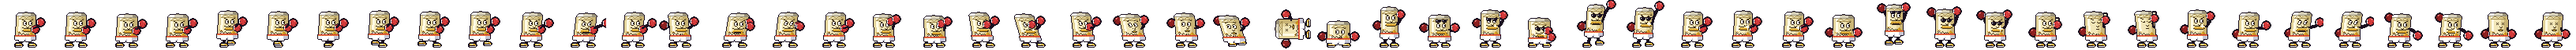
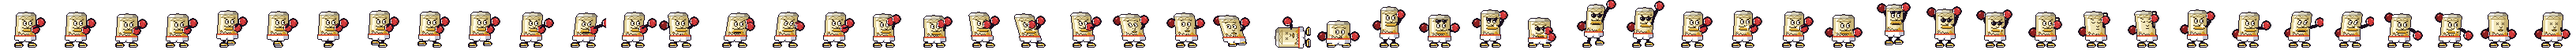
Mission 3 fight fixes: flat knockdowns, the KO picture, new count rules
- Knocked-down fighters lie on the mat: the flat frames keep both gloves up on
  the chest, so the body (not a glove) sits on the floor line. Mane, Pip and
  Crowe (Mission 7) all get it.
- During a count the fighter still standing backs off to a neutral corner and
  the ref stands clear of the one on the mat.
- The final KO shows Jack's KO picture full-screen instead of the sepia photo
  cutscene. Tap or any key moves on.
- Pip beats the count at 3, 5, 7, then 9 and gets up with 60/45/32/20% health.
  The 5th knockdown recycles him in any round, and the HUD shows 5 cans.
- The Mission 3 results line reads I AM THE GREATEST WATER IN THE WORLD!

Claude-Session: https://claude.ai/code/session_01Ug46qhJDuhB8V35tG5BFoy

Changed region(s): [[0.4688, 0.375, 0.5312, 0.9688]]

diff --git a/src/missions/Mission3.ts b/src/missions/Mission3.ts
@@ -3,6 +3,7 @@ import { FightScene, CountPlan, RoundEnd, Speaker } from '../modes/fight/FightSc
 import { Fighter, Move, FLOOR_Y } from '../modes/fight/Fighter';
 import { Pip, PipStyle } from '../modes/fight/Pip';
 import { Audio } from '../core/audio';
+import { Controls } from '../core/controls';
 import { COLORS } from '../core/config';
 import { px } from '../core/text';
 import { MANE, PIP } from './lines';
@@ -15,11 +16,17 @@ const ROUNDS: PipStyle[] = [
   { gap: [0.6, 1.25], weights: { jab: 3, jab2: 2, jab3: 2, hay: 3, cap: 2, flip: 3, taunt: 1 }, guard: 0.35, crinkle: 0.3, speed: 1.16, power: 1.15, daze: 0.8 },
 ];
 const ROUND_SECONDS = 75;
+// Pip beats the count at 3, 5, 7, then 9, and gets up weaker each time; the 5th knockdown recycles him.
+// It can happen in any round: five knockdowns and the fight's over.
+const GET_UP_AT = [3, 5, 7, 9];
+const GET_UP_HP = [0.6, 0.45, 0.32, 0.2];
+const KNOCKDOWNS_TO_RECYCLE = GET_UP_AT.length + 1;
 
 // Mission 3: FIGHT NIGHT. Mid-South Coliseum. MEMPHYS Mane vs Pip, the DeNile Water mascot. Three rounds.
 export class Mission3 extends FightScene {
   private pip!: Pip;
   private arenaImg!: Phaser.GameObjects.Image;
+  private koPhoto?: HTMLImageElement;
   private spot!: Phaser.GameObjects.Image;
   private bulbs?: Phaser.Time.TimerEvent;
 
@@ -27,6 +34,10 @@ export class Mission3 extends FightScene {
 
   buildArena() {
     this.missionId = 'm3-fight-night';
+    this.kdSlots = KNOCKDOWNS_TO_RECYCLE;
+    // the KO photo is a real picture: load it early so it's there the moment he drops
+    this.koPhoto = new Image();
+    this.koPhoto.src = 'assets/img/ko-meme.jpg';
     this.arenaImg = this.add.image(this.midX, 0, 'arena').setOrigin(0.5, 0).setDepth(-100);
     this.spot = this.add.image(this.midX, 0, 'spotlight').setOrigin(0.5, 0).setScale(1.6, 1).setDepth(20).setBlendMode(Phaser.BlendModes.ADD).setAlpha(0.7);
     this.ref = this.add.sprite(this.midX + 120, FLOOR_Y - 8, 'ref').setOrigin(0.5, 61 / 64).setScale(2).setDepth(5).setFlipX(true).play('ref:idle');
@@ -46,8 +57,7 @@ export class Mission3 extends FightScene {
   }
 
   foeCount(kd: number): CountPlan {
-    // rounds 1 and 2 he beats the count and the round goes on; round 3 he's recycled
-    if (this.round < 3) return { getUpAt: kd <= 1 ? 5 : 7 };
+    if (kd < KNOCKDOWNS_TO_RECYCLE) return { getUpAt: GET_UP_AT[kd - 1], getUpHp: GET_UP_HP[kd - 1] };
     return { getUpAt: null, lastWord: 'RECYCLED!' };
   }
 
@@ -87,15 +97,19 @@ export class Mission3 extends FightScene {
     Audio.music(this, 'music_fight', 0.45);
     this.tip('start');
     this.pip.setStyle(ROUNDS[0]);
+    // five knockdowns ends it in any round; the final round has no clock, so it ends when he's recycled
     let how: RoundEnd = await this.fightRound(1, ROUND_SECONDS);
-    await this.corner(1, how);
-    this.pip.setStyle(ROUNDS[1]);
-    how = await this.fightRound(2, ROUND_SECONDS);
-    await this.corner(2, how);
-    this.pip.setStyle(ROUNDS[2]);
-    this.pip.tint = 0xc8e8ff;
-    // the final round has no clock: it ends when somebody gets recycled
-    while ((how = await this.fightRound(3, null)) !== 'ko') { /* he can't get up in round 3 */ }
+    if (how !== 'ko') {
+      await this.corner(1, how);
+      this.pip.setStyle(ROUNDS[1]);
+      how = await this.fightRound(2, ROUND_SECONDS);
+    }
+    if (how !== 'ko') {
+      await this.corner(2, how);
+      this.pip.setStyle(ROUNDS[2]);
+      this.pip.tint = 0xc8e8ff;
+      while ((how = await this.fightRound(3, null)) !== 'ko') { /* keep going till he's recycled */ }
+    }
     await this.ending();
   }
 
@@ -280,45 +294,50 @@ export class Mission3 extends FightScene {
   async beforeCount(f: Fighter, plan: CountPlan) {
     if (f !== this.pip || plan.getUpAt !== null) return;
     Audio.stopMusic();
-    await this.wait(900);
-    const p = this.player, pip = this.pip;
     this.events.emit('cutscene', true);
-    // Mane stands over him, just like the poster: Pip flat in front, Mane behind him
-    this.refTo(this.midX, true);
-    p.setState('scripted');
-    pip.setState('scripted');
-    pip.x = Phaser.Math.Clamp(pip.x, this.midX - 40, this.midX + 90);
-    pip.z = -12;
-    pip.sprite.setDepth(12);
-    p.x = pip.x - 34; p.facing = 1;
-    p.play('standOver', true);
+    await this.wait(700);
+    // flashbulbs, then the picture everybody's gonna post
     const cam = this.cameras.main;
-    const W = this.W;
-    const layer = this.add.container(0, 0).setDepth(30);
-    layer.add(this.add.rectangle(0, 0, W, 216, 0x8a5a20, 0.32).setOrigin(0).setBlendMode(Phaser.BlendModes.MULTIPLY));
-    layer.add(this.add.rectangle(0, 0, W, 216, 0xffe0a0, 0.08).setOrigin(0).setBlendMode(Phaser.BlendModes.ADD));
-    for (const [x, y, w, hh] of [[0, 0, W, 18], [0, 198, W, 18], [0, 0, 22, 216], [W - 22, 0, 22, 216]]) layer.add(this.add.rectangle(x, y, w, hh, 0x000000, 0.55).setOrigin(0));
-    cam.pan((p.x + pip.x) / 2 + 4, 128, 500, 'Sine.easeInOut');
-    cam.zoomTo(1.35, 500, 'Sine.easeInOut');
     this.sfx('ooh', 0.8);
-    for (let i = 0; i < 9; i++) {
-      this.time.delayedCall(300 + i * 260 + Math.random() * 120, () => {
-        this.sfx('flash', 0.6);
-        this.bulb(undefined, undefined, true);
-        if (i % 3 === 0) cam.flash(90, 255, 255, 255);
-      });
-    }
-    this.time.delayedCall(1200, () => p.play('standOver', true));
-    await this.wait(3400);
-    cam.zoomTo(1, 400, 'Sine.easeInOut');
-    cam.pan(W / 2, 108, 400, 'Sine.easeInOut');
-    await this.wait(420);
-    layer.destroy();
-    cam.setScroll(0, 0);
-    p.x = this.homes().mane - 20;
-    p.play('idle');
-    pip.z = 0; pip.setState('down');
+    for (let i = 0; i < 4; i++) this.time.delayedCall(i * 140, () => { this.sfx('flash', 0.6); this.bulb(undefined, undefined, true); });
+    await this.wait(600);
+    cam.flash(160, 255, 255, 255);
+    await this.showKoPhoto();
     this.events.emit('cutscene', false);
+  }
+
+  // Jack's KO picture over the whole game, full resolution. Tap or press a key to move on.
+  private showKoPhoto() {
+    const canvas = this.game.canvas;
+    const r = canvas.getBoundingClientRect();
+    const host = (document.fullscreenElement as HTMLElement | null) ?? document.body;
+    const wrap = document.createElement('div');
+    Object.assign(wrap.style, {
+      position: 'fixed', left: r.left + 'px', top: r.top + 'px', width: r.width + 'px', height: r.height + 'px',
+      background: 'rgba(4,6,18,0.94)', display: 'flex', alignItems: 'center', justifyContent: 'center',
+      zIndex: '50', opacity: '0', transition: 'opacity 220ms ease-out', cursor: 'pointer',
+    } as Partial<CSSStyleDeclaration>);
+    const img = (this.koPhoto?.complete ? this.koPhoto : null) ?? Object.assign(new Image(), { src: 'assets/img/ko-meme.jpg' });
+    img.alt = 'MEMPHYS Mane stands over a knocked-out Pip';
+    Object.assign(img.style, {
+      height: '92%', maxWidth: '92%', objectFit: 'contain', border: '3px solid #f3e2b0', borderRadius: '2px',
+      boxShadow: '0 6px 30px rgba(0,0,0,0.7)', transform: 'rotate(-1.5deg) scale(1.06)', transition: 'transform 400ms ease-out',
+    } as Partial<CSSStyleDeclaration>);
+    wrap.appendChild(img);
+    host.appendChild(wrap);
+    requestAnimationFrame(() => { wrap.style.opacity = '1'; img.style.transform = 'rotate(-1.5deg) scale(1)'; });
+    const t0 = this.time.now;
+    let tapped = false;
+    wrap.addEventListener('pointerdown', () => { tapped = true; });
+    const close = () => wrap.remove();
+    this.events.once(Phaser.Scenes.Events.SHUTDOWN, close);
+    this.time.delayedCall(250, () => this.sfx('flash', 0.7));
+    return this.waitUntil(() => this.time.now - t0 > 4200 || (this.time.now - t0 > 700 && (tapped || Controls.consume('attack', 300))))
+      .then(async () => {
+        wrap.style.opacity = '0';
+        await this.wait(230);
+        close();
+      });
   }
 
   // ------------------------------------------------------------------ ending: recycled, O.G. pays up, the tanker tip

diff --git a/src/modes/fight/FightScene.ts b/src/modes/fight/FightScene.ts
@@ -29,6 +29,7 @@ export abstract class FightScene extends Phaser.Scene {
   missionId = '';
   round = 0;
   clock: number | null = null; // seconds left, or null for no clock
+  kdSlots = 3; // knockdown cans on the foe's HUD
   fighting = false; // fighters can act
   inCutscene = false;
   skipping = false;
@@ -413,13 +414,29 @@ export abstract class FightScene extends Phaser.Scene {
     for (const f of [this.player, this.foeF]) if (f.state !== 'down' && f.state !== 'out') { f.toIdle(); f.controllable = false; }
   }
 
+  // During a count the fighter still standing backs off to a neutral corner, and the ref
+  // stands between them, clear of the one lying on the mat.
+  neutralCorner(down: Fighter) {
+    const o = this.other(down);
+    const dir = Math.sign(o.x - down.x) || (down === this.player ? 1 : -1);
+    const lim = this.ringHalf();
+    this.refTo(Phaser.Math.Clamp(down.x + dir * 94, this.midX - lim - 20, this.midX + lim + 20));
+    if (o.state === 'down' || o.state === 'out') return;
+    const ox = Phaser.Math.Clamp(down.x + dir * 160, this.midX - lim, this.midX + lim);
+    if (Math.abs(ox - o.x) < 6) return;
+    o.move = null;
+    o.setState('scripted');
+    o.play('walk', true);
+    this.tweens.add({ targets: o, x: ox, duration: Math.min(900, Math.abs(ox - o.x) * 8 + 150), onComplete: () => { if (o.state === 'scripted') o.play('idle', true); } });
+  }
+
   // The ref counts. Returns true if the fighter beats the count.
   async count(f: Fighter, plan: CountPlan) {
     this.counting = true;
     const other = this.other(f);
     other.controllable = false;
     await this.wait(700);
-    this.refTo(f.x + (f === this.player ? 46 : -46));
+    this.neutralCorner(f);
     for (let i = 1; i <= 10; i++) {
       const last = i === 10 || (plan.lastWord && i === 10);
       const word = i === 10 && plan.lastWord ? plan.lastWord : String(i);
@@ -450,7 +467,7 @@ export abstract class FightScene extends Phaser.Scene {
     const need = 8 + p.knockdowns * 5;
     let taps = 0;
     await this.wait(600);
-    this.refTo(p.x + 46);
+    this.neutralCorner(p);
     this.events.emit('mash', 0);
     Controls.clear();
     for (let i = 1; i <= 10; i++) {

diff --git a/tools/art/fight.ts b/tools/art/fight.ts
@@ -72,7 +72,8 @@ export function maneBoxFrames() {
     { x: -3, tilt: -6, sx: 2, sy: -2, front: A(4, -11), back: A(-6, -10), ff: [3, 0], bf: [-3, 0], face: 'hurt' },
     { x: -1, tilt: -3, sx: 1, sy: -1, front: A(7, -6), back: A(-7, -6), ff: [3, 0], bf: [-3, 0], face: 'hurt' },
   ]);
-  const flat = layFlat(finish(drawMane(B({ front: A(8, -6), back: A(-8, -6), ff: [3, 0], bf: [-3, 0], face: 'ko' }))), 61);
+  // gloves rest on the chest (to the right standing = up once laid flat), so the body itself lies on the mat
+  const flat = layFlat(finish(drawMane(B({ front: A(10, -4), back: A(6, -12), ff: [3, 0], bf: [-3, 0], face: 'ko' }))), 61);
   add('knockdown', [
     { x: -4, y: 2, tilt: -9, sx: 1, sy: -2, front: A(6, -10), back: A(-6, -12), ff: [5, -3], bf: [2, -1], face: 'hurt' },
     flat,
@@ -350,7 +351,7 @@ export function pipFrames() {
     { x: -1, tilt: -3, front: A(7, 8), back: A(-6, 8), ff: [3, 0], bf: [-3, 0], face: 'dizzy' },
     { x: 1, tilt: 3, front: A(7, 8), back: A(-6, 8), ff: [3, 0], bf: [-3, 0], face: 'dizzy' },
   ]);
-  const flat = layFlat(drawPip({ front: A(9, -8), back: A(-8, -9), ff: [3, 0], bf: [-3, 0], face: 'ko', crinkle: 1 }), 61);
+  const flat = layFlat(drawPip({ front: A(11, -4), back: A(7, -13), ff: [3, 0], bf: [-3, 0], face: 'ko', crinkle: 1 }), 61);
   add('knockdown', [
     { x: -4, y: 2, tilt: -9, sx: 1, sy: -2, crinkle: 0.8, front: A(6, -12), back: A(-6, -13), ff: [5, -3], bf: [2, -1], face: 'hurt' },
     flat,

diff --git a/src/scenes/Results.ts b/src/scenes/Results.ts
@@ -1,4 +1,5 @@
 import Phaser from 'phaser';
+import { MANE } from '../missions/lines';
 import { Audio } from '../core/audio';
 import { COLORS, MEMPHYS_URL } from '../core/config';
 import { px } from '../core/text';
@@ -28,7 +29,7 @@ export class Results extends Phaser.Scene {
     this.add.tileSprite(0, 0, W, 216, m.mode === 'fight' ? (m.number === 7 ? 'riverStage' : 'arena') : m.mode === 'driving' ? (m.number === 8 ? 'loopFar' : 'driveFar') : m.mode === 'shooter' ? (m.number === 9 ? 'gigantumExt' : 'plantExt') : m.number === 10 ? 'sourceExt' : m.number === 6 ? 'bealeExt' : 'egypt').setOrigin(0).setAlpha(0.35);
     this.add.rectangle(0, 0, W, 216, 0x070a1c, 0.55).setOrigin(0);
     px(this, W / 2, 12, `MISSION ${m.number} COMPLETE`, COLORS.goldHi, 2).setOrigin(0.5, 0);
-    px(this, W / 2, 34, !next && m.number === 10 ? 'THE END. THANKS FOR PLAYING!' : 'ROYAL BY NATURE.', COLORS.cream).setOrigin(0.5, 0);
+    px(this, W / 2, 34, !next && m.number === 10 ? 'THE END. THANKS FOR PLAYING!' : m.number === 3 ? MANE.victory : 'ROYAL BY NATURE.', COLORS.cream).setOrigin(0.5, 0);
 
     const mane = this.add.sprite(70, 150, m.mode === 'fight' ? 'maneBox' : 'mane').setScale(2).setOrigin(0.5, 61 / 64);
     mane.play(`${mane.texture.key}:victory`);

diff --git a/tools/art/crowe.ts b/tools/art/crowe.ts
@@ -305,7 +305,7 @@ export function croweFrames() {
   ]);
   add('knockdown', [
     { x: -4, lean: -6, crouch: 2, fa: [4, -12], ba: [-8, -12], ff: [5, -3], bf: [2, -1], face: 'hurt' },
-    layFlat(drawCrowe({ fa: [10, -8], ba: [-8, -9], ff: [3, 0], bf: [-3, 0], face: 'ko', sparks: true }), 61),
+    layFlat(drawCrowe({ fa: [11, -4], ba: [7, -13], ff: [3, 0], bf: [-3, 0], face: 'ko', sparks: true }), 61),
   ]);
   add('getup', [
     { crouch: 8, lean: 3, fa: [8, 8], ba: [-6, 8], ff: [6, 0], bf: [-6, 0], face: 'hurt' },
@@ -641,7 +641,7 @@ export function victorFrames() {
   ]);
   add('knockdown', [
     { x: -4, lean: -6, crouch: 2, fa: [4, -12], ba: [-8, -12], ff: [5, -3], bf: [2, -1], face: 'hurt' },
-    layFlat(drawCrowe({ human: true, fa: [10, -8], ba: [-8, -9], ff: [3, 0], bf: [-3, 0], face: 'ko' }), 61),
+    layFlat(drawCrowe({ human: true, fa: [11, -4], ba: [7, -13], ff: [3, 0], bf: [-3, 0], face: 'ko' }), 61),
   ]);
   add('getup', [
     { crouch: 8, lean: 3, fa: [8, 8], ba: [-6, 8], ff: [6, 0], bf: [-6, 0], face: 'hurt' },

diff --git a/src/modes/fight/FightUI.ts b/src/modes/fight/FightUI.ts
@@ -82,7 +82,7 @@ export class FightUI extends Phaser.Scene {
     const fn = px(this, W - 44, 4, this.world.foeF.name, 0xa8dcff).setOrigin(1, 0);
     const fb = this.add.rectangle(W - 44, 15, this.barW + 2, 7, 0x0b0f26).setOrigin(1, 0).setStrokeStyle(1, COLORS.ink);
     this.foeBar = this.add.rectangle(W - 45, 16, this.barW, 5, COLORS.red).setOrigin(1, 0);
-    for (let i = 0; i < 3; i++) this.stars.push(this.add.image(W - 50 - i * 12, 30, 'hudCanEmpty').setOrigin(0.5, 0).setScale(0.7).setTint(0x7fc4ff).setAlpha(0.35));
+    for (let i = 0; i < this.world.kdSlots; i++) this.stars.push(this.add.image(W - 50 - i * 12, 30, 'hudCanEmpty').setOrigin(0.5, 0).setScale(0.7).setTint(0x7fc4ff).setAlpha(0.35));
     // round + clock in the middle
     this.roundText = px(this, W / 2, 6, '', COLORS.goldHi).setOrigin(0.5, 0);
     this.clockText = px(this, W / 2, 17, '', 0xffffff, 2).setOrigin(0.5, 0);
